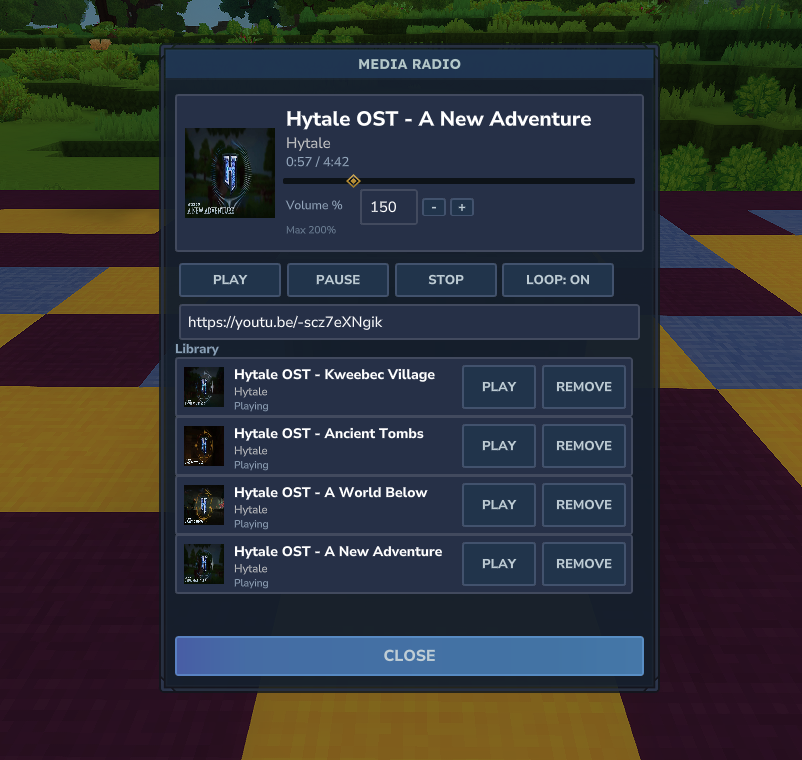
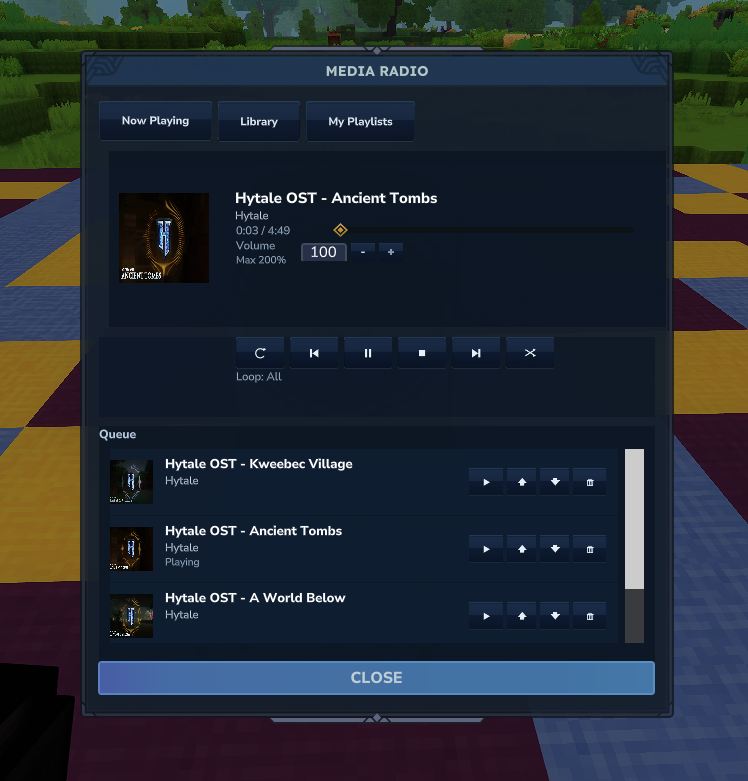
tweaks: README for v1.4

diff --git a/README.md b/README.md
@@ -5,8 +5,8 @@ or while a Boombox is placed, and the UI provides a media-player style interface
 play/pause/stop, seek, looping, and a per-player library.
 
 ## Features
-- Plays web audio from supported URLs (YouTube, etc.) using embedded yt-dlp + ffmpeg.
-- Audio is downloaded, converted to OGG, and chunked for streaming (with reduced streaming lag).
+- Plays web audio from supported URLs (YouTube, etc.) via the companion `media-tools` mod (yt-dlp + ffmpeg).
+- Audio is downloaded, converted to OGG, and chunked into Hytale `SoundEvent` assets for streaming.
 - Portable Radio (handheld) and Boombox (placeable) items.
 - Per-player libraries: each player only sees the songs they requested.
 - Thumbnails are downloaded and registered as dynamic assets.
@@ -14,10 +14,16 @@ play/pause/stop, seek, looping, and a per-player library.
 - Portable Radio includes a proper model and animation set.
 
 ## Notes
+- UI: This project uses HyUI-style `.ui` pages for the in-game interface. If you are building from source or extending the UI, HyUI is required. (Docs are vendored in `HyUI-Docs-main/`.)
 - Embedded tools live in the `media-tools` subproject and are loaded from the classpath.
 - If you ship separate jars, include the MediaRadio jar and the `media-tools` jar together.
 - This mod uses runtime asset packs under `run/media_radio_assets`.
 - For now, client-hosted/singleplayer worlds are not supported; the mod needs a dedicated server environment and access to external tools (sandboxing prevents this). Future support is planned.
+
+## Playback System
+Playback is session-based and chunk-scheduled:
+- A `MediaPlaybackManager` manages active playback sessions for handheld radios (per-player) and boomboxes (per-block position).
+- Tracks are played by scheduling chunked `SoundEvent` assets, and an audio-marker NPC is used to keep the audio source positioned correctly in-world.
 
 ## Recipe
 - Crafted at a Furniture Bench (Furniture Misc).
@@ -27,6 +33,9 @@ play/pause/stop, seek, looping, and a per-player library.
 ![Portable Radio held](Screenshots/RadioHeld.png)
 ![Boombox placed](Screenshots/BoomboxPlaced.png)
 ![Media radio UI](Screenshots/UI.png)
+![Library UI](Screenshots/Library_UI.png)
+![Playlists UI (Main)](Screenshots/Playlists_UI_Main.png)
+![Playlists UI (Selected)](Screenshots/Playlists_UI_Selected.png)
 
 ## Setup (Prebuilt)
 1. Download the latest MediaRadio mod binaries.
